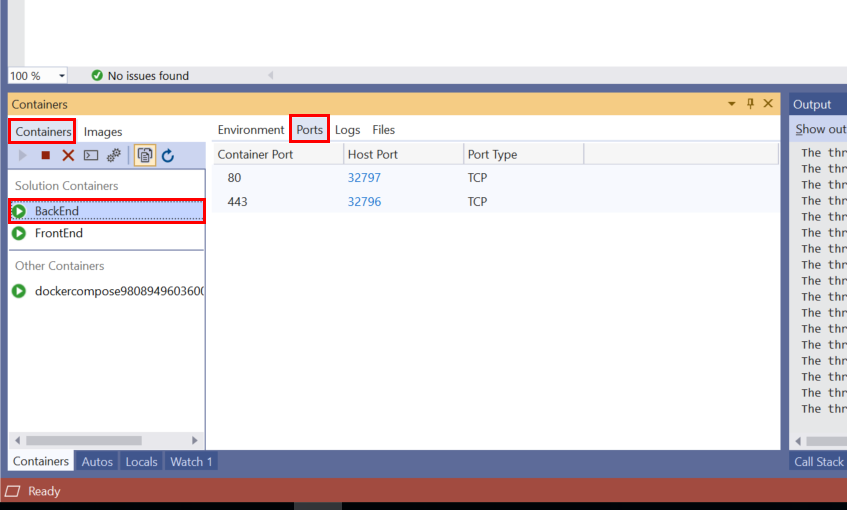
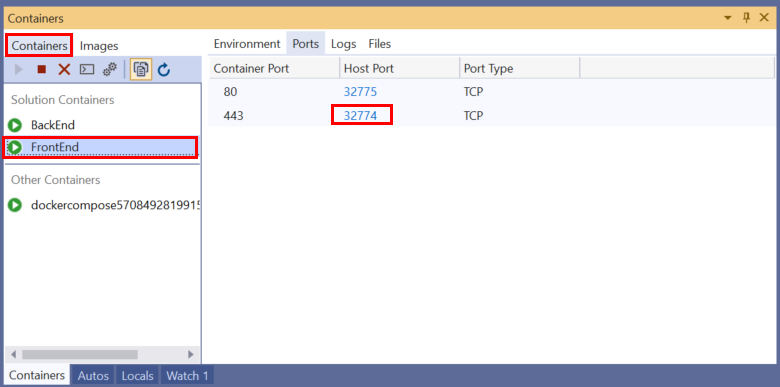
Tweaks

diff --git a/docs/6. Production Readiness and Deployment.md b/docs/6. Production Readiness and Deployment.md
@@ -887,7 +887,7 @@ For this task, you can either use the Azure portal, or the Azure command line to
     | Linux Plan | Accept the default plan name |
     | Sku and size | Click **Change size**. On the **Spec Picker** page, select the **Dev/Test** tab. Select the **F1** pricing tier if it is available, otherwise select **B1**, and then click **Apply** |
 
-    ![The **Web App** page in the Azure portal. The user has specified the properties for the new web app](images/portal-web-app.png)
+    ![The **Web App** page in the Azure portal. The user has specified the properties for the new web app](images/6-portal-web-app.png)
 
 5. On the **Review + create** page, click **Create**
 
@@ -1469,37 +1469,33 @@ For this exercise, you should start with a copy of the solution in the [Docker f
   
     3. On the **Debug** menu, click **Start Debugging**.
 
-        When the Docker container has been started, a web browser window will open at the URL for the **BackEnd** web API service, and navigate to the **api/speakers** endpoint. You may be prompted to download the file **speakers.json**. This file will contain an empty list of speakers. The image below shows the dialog box displayed by Internet Explorer. If you are using a different browser, you may see a different message.
+        When the Docker containers have been started, a web browser window will open at the URL for the **BackEnd** web API service, and navigate to the **api/speakers** endpoint. The page will display an empty list of speakers, because the database is currently empty.
 
-        ![The *View and track downloads** dialog box for Internet Explorer.](images/6-download.png)
+    4. In the web browser, move to the Swagger endpoint for the **BackEnd** service, `https://localhost:<port>/swagger`. The Swagger UI page should appear.
 
-        Close the dialog box without downloading the data.
+    5. In the **Sessions** section, click the **POST** button for the **/api/Sessions/upload** operation, and then click **Try it out**.
 
-    4. In Visual Studio, select the **Containers** window, and click the **Containers** and **Ports** tabs. In the left-hand pane listing containers, select the **BackEnd** container.
+    6. In the **Parameters** section, at the file prompt, click **Browse**.
 
-        ![The *Containers** window in Visual Studio. The user is displaying the ports for the **BAckEnd** container.](images/6-containers.png)
+    7. In the Open dialog box, browse to the folder containing your clone of the GitHub repository, move to the folder **src/BackEnd/Data/Import** in the repository, select the file **NDC_London_2020.json**, and then click **Open**.
 
-    5. In the list of ports for the **BackEnd** container, click the **Host Port** link for **Container Port** 443 (port 32796 in the image above). The web browser will open a page at this port running on the server in the container. This is the URL for the **BackEnd** web API service in the container. The web browser will display an HTTP 404 error message, for reasons described in earlier exercises.
+    8. Back in the web browser, click **Execute**, and wait for the data to be uploaded. Verify that the upload is successful (the server response code should be 200).
 
-    6. In the web browser, move to the Swagger endpoint for the **BackEnd** service, `https://localhost:<port>/swagger`. The Swagger UI page should appear.
+        ![The **Swagger** UI. The user has executed the session upload operation.](images/6-upload-sessions.png)
 
-    7. In the **Sessions** section, click the **POST** button for the **/api/Sessions/upload** operation, and then click **Try it out**.
+    9. In Visual Studio, select the **Containers** window, and click the **Containers** and **Ports** tabs. In the left-hand pane listing containers, select the **FrontEnd** container.
 
-    8. In the **Parameters** section, at the file prompt, click **Browse**.
+        ![The *Containers** window in Visual Studio. The user is displaying the ports for the **FrontEnd** container.](images/6-containers.png)
 
-    9. In the Open dialog box, browse to the folder containing your clone of the GitHub repository, move to the folder **src/BackEnd/Data/Import** in the repository, select the file **NDC_London_2020.json**, and then click **Open**.
+    10. In the list of ports for the **FrontEnd** container, click the **Host Port** link for **Container Port** 443 (port 32774 in the image above). The web browser will open a page at this port running on the server in the container. This is the URL for the **BackEnd** web API service in the container.
 
-    10. Back in the web browser, click **Execute**, and wait for the data to be uploaded. Verify that the upload is successful (the server response code should be 200).
+        The web browser will open the home page at for the **FrontEnd** application, displaying the list of sessions for the conference.
 
-    11. Return to the **Containers** window in Visual Studio.
+        ![The web browser displaying the home page of the conference web app](images/6-frontend-app.png)
 
-    12. In the left-hand pane, select the **FrontEnd** container.
+    11. Verify that you can register, sign in, and create a personal agenda.
 
-    13. In the list of ports click the **Host Port** link for **Container Port** 443. The web browser will open the home page at for the **FrontEnd** application, displaying the list of sessions for the conference.
-
-    14. Verify that you can register, sign in, and create a personal agenda.
-
-    15. When you have finished, in Visual Studio, on the **Debug** menu, click **Stop Debugging**.
+    12. When you have finished, in Visual Studio, on the **Debug** menu, click **Stop Debugging**.
 
     > **Note:** Stopping the debug session doesn't stop the services or containers running in Docker. You can still connect to the FrontEnd web app and BackEnd web API service from a browser.
 
